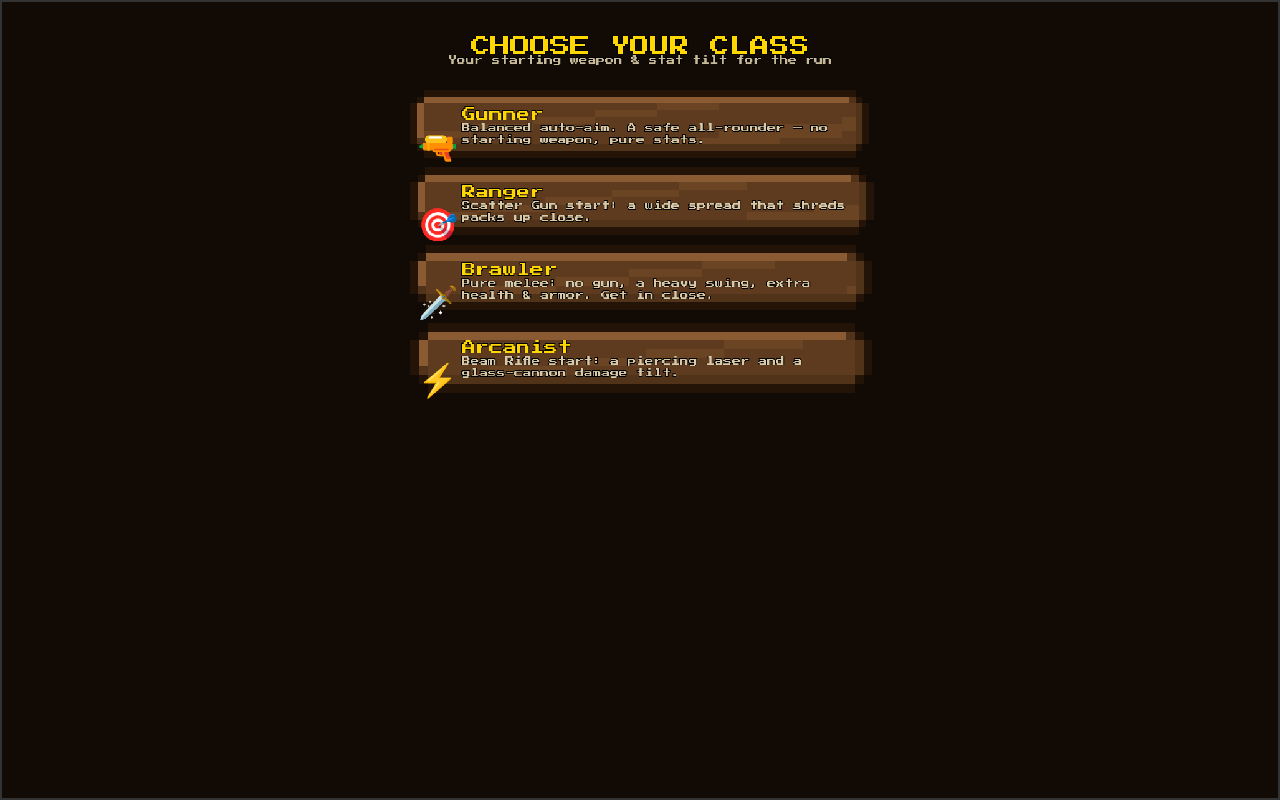
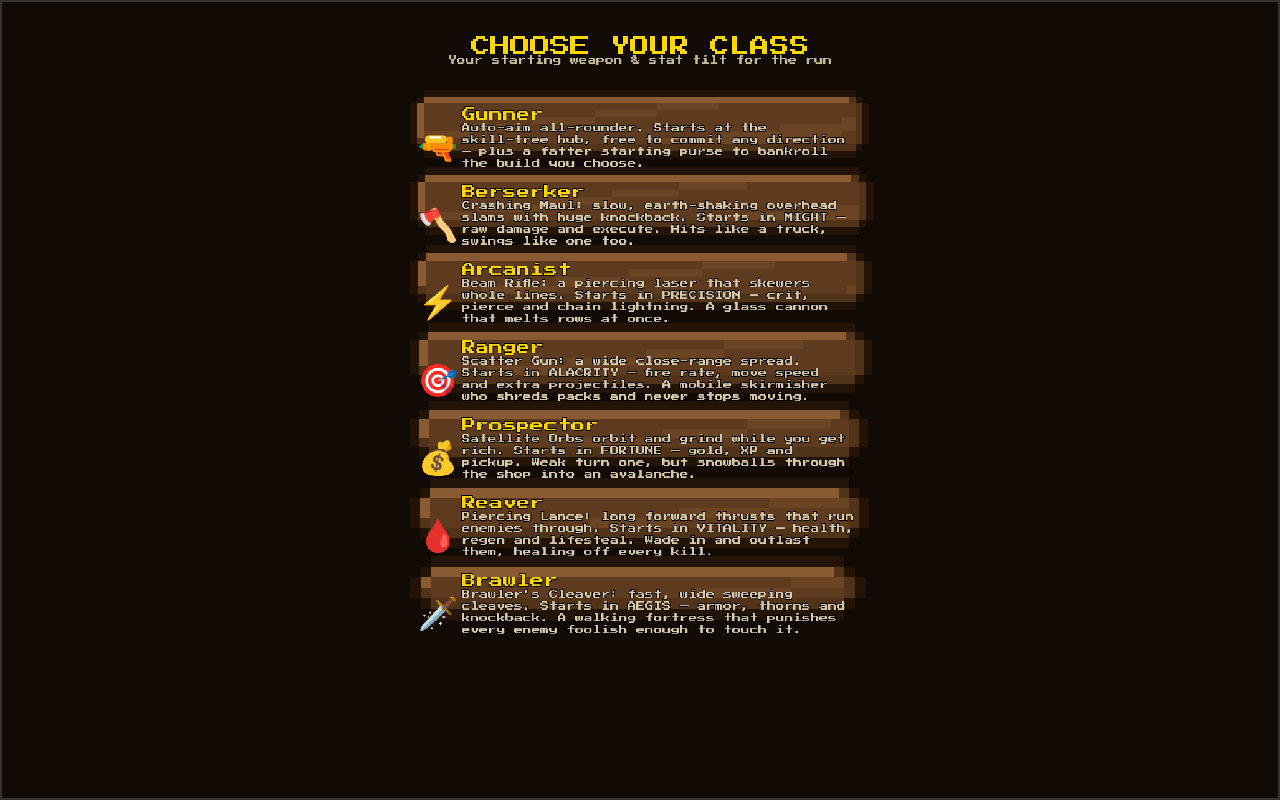
feat(game): add 8 new active skills — repel, lance, shield, runes, soul, mirror, comet, hellfire
Adds 8 Soulstone-inspired active skills covering new gameplay categories:

Tier 1:
- Thunder Clap: explosive repel blast — pushes all nearby enemies outward + stuns 1s

Tier 2:
- Bone Spear: massive single piercing bone lance through all enemies in line
- Spectral Shield: 5s invincibility bubble + burst nova on cast
- Rune Field: drop 6 delayed rune detonations at enemy positions (0.5s fuse)

Tier 3:
- Soul Shatter: stack Condemned×12 + Fragility×10 + Exposed×5 on 8 nearest, then detonate
- Mirror Strike: 3 simultaneous strikes hit every enemy on screen

Tier 4:
- Doom Comet: 1.5s warning comet — 18× damage, huge radius, applies ALL debuffs to every hit enemy
- Hellfire Rain: 20 bolts rain on all living enemies over 4 seconds

Scroll items added for all 8 skills across tiers (34 total active skills now).
New categories covered: repel/knockback, defense/invincibility, trap/placement, debuff-nuke.

Changed region(s): [[0.3125, 0.1562, 0.6875, 0.8125]]

diff --git a/frontend/src/Game.ts b/frontend/src/Game.ts
@@ -2205,6 +2205,173 @@ export class Game {
         }
         break;
       }
+
+      // ── TIER 1 NEW ───────────────────────────────────────────────────────
+      case 'thunder_clap': {
+        // Explosive repel — blast all nearby enemies outward, stun 1s, AoE damage.
+        const rTC = skill.radius ?? 200;
+        for (const e of this.enemies) {
+          if (e.dead) continue;
+          const dx = e.x - px, dy = e.y - py;
+          const dist = Math.hypot(dx, dy);
+          if (dist <= rTC) {
+            // Push enemy outward (stronger when closer)
+            const pushMag = (1 - dist / rTC) * 220 + 60;
+            if (dist > 5) {
+              e.x = Math.max(20, Math.min(this.worldWidth - 20, e.x + (dx / dist) * pushMag));
+              e.y = Math.max(20, Math.min(this.worldHeight - 20, e.y + (dy / dist) * pushMag));
+            }
+            e.frozenTimer = Math.max(e.frozenTimer, 1.0); // stun via freeze
+            this.dealAuxDamage(e, baseDmg, '#ffd43b');
+          }
+        }
+        this.spawnAoeZone(new AoeZone(px, py, rTC, 0, 0.0, {
+          color: '#ffd43b', activeTime: 0.35, singleHit: true,
+        }));
+        break;
+      }
+
+      // ── TIER 2 NEW ───────────────────────────────────────────────────────
+      case 'bone_spear': {
+        // Massive single piercing bone lance — fired toward the nearest enemy.
+        const aliveBS = this.enemies.filter(e => !e.dead);
+        if (aliveBS.length === 0) break;
+        const nearBS = aliveBS.reduce((n, e) =>
+          Math.hypot(e.x - px, e.y - py) < Math.hypot(n.x - px, n.y - py) ? e : n
+        );
+        const angleBS = Math.atan2(nearBS.y - py, nearBS.x - px);
+        const p = new Projectile(px, py, angleBS, baseDmg, 320, true, false);
+        p.maxPierceCount = 999;
+        p.color = '#e8d5b7';
+        p.radius = 18; // visually large
+        this.projectiles.push(p);
+        break;
+      }
+      case 'spectral_shield': {
+        // 5s invincibility bubble + immediate burst nova around the player.
+        if (this.player) this.player.invincibilityTimer = Math.max(this.player.invincibilityTimer, 5.0);
+        const rSS = skill.radius ?? 160;
+        for (const e of this.enemies) {
+          if (e.dead) continue;
+          if (Math.hypot(e.x - px, e.y - py) <= rSS) {
+            this.dealAuxDamage(e, baseDmg, '#74c0fc');
+          }
+        }
+        this.spawnAoeZone(new AoeZone(px, py, rSS, 0, 0.0, {
+          color: '#a5d8ff', activeTime: 5.0, singleHit: true, shape: 'ring',
+        }));
+        break;
+      }
+      case 'rune_field': {
+        // Drop 6 rune detonations at nearest enemy positions, each with 0.5s fuse.
+        const alivRF = [...this.enemies]
+          .filter(e => !e.dead)
+          .sort((a, b) => Math.hypot(a.x - px, a.y - py) - Math.hypot(b.x - px, b.y - py))
+          .slice(0, 6);
+        const rRF = skill.radius ?? 70;
+        for (let i = 0; i < alivRF.length; i++) {
+          const t = alivRF[i];
+          this.spawnAoeZone(new AoeZone(t.x, t.y, rRF, baseDmg, 0.5 + i * 0.1, {
+            color: '#ff6b6b', activeTime: 0.4, singleHit: true,
+          }));
+        }
+        // If fewer than 6 enemies, fill with random positions around player
+        for (let i = alivRF.length; i < 6; i++) {
+          const ang = (i / 6) * Math.PI * 2;
+          const d = 100 + Math.random() * 80;
+          this.spawnAoeZone(new AoeZone(px + Math.cos(ang) * d, py + Math.sin(ang) * d, rRF, baseDmg, 0.5 + i * 0.1, {
+            color: '#ff6b6b', activeTime: 0.4, singleHit: true,
+          }));
+        }
+        break;
+      }
+
+      // ── TIER 3 NEW ───────────────────────────────────────────────────────
+      case 'soul_shatter': {
+        // Stack Condemned×12 + Fragility×10 on 8 nearest, then detonation burst.
+        const targsSH = [...this.enemies]
+          .filter(e => !e.dead)
+          .sort((a, b) => Math.hypot(a.x - px, a.y - py) - Math.hypot(b.x - px, b.y - py))
+          .slice(0, 8);
+        for (const t of targsSH) {
+          t.statusFX.apply('condemned', { stacks: 12 });
+          t.statusFX.apply('fragility', { stacks: 10 });
+          t.statusFX.apply('exposed', { stacks: 5 });
+        }
+        // Detonation burst — hits all 8 and visual flash
+        for (const t of targsSH) {
+          this.dealAuxDamage(t, baseDmg, '#c92a2a');
+          this.spawnAoeZone(new AoeZone(t.x, t.y, 45, 0, 0.0, {
+            color: '#9b2335', activeTime: 0.35, singleHit: true,
+          }));
+        }
+        break;
+      }
+      case 'mirror_strike': {
+        // 3 simultaneous strikes hit EVERY enemy on screen.
+        const alivMS = this.enemies.filter(e => !e.dead);
+        for (let wave = 0; wave < 3; wave++) {
+          this.spawnAoeZone(new AoeZone(px, py, 900, baseDmg / 3, wave * 0.3, {
+            color: '#e599f7', activeTime: 0.25, singleHit: false,
+          }));
+        }
+        // Extra visual on each enemy
+        for (const e of alivMS) {
+          if (!e.dead) this.spawnAoeZone(new AoeZone(e.x, e.y, 30, 0, 0.0, {
+            color: '#cc5de8', activeTime: 0.2, singleHit: true,
+          }));
+        }
+        break;
+      }
+
+      // ── TIER 4 NEW ───────────────────────────────────────────────────────
+      case 'doom_comet': {
+        // 1.5s warning comet — massive blast + all debuffs on every enemy hit.
+        const rDC = skill.radius ?? 200;
+        this.spawnAoeZone(new AoeZone(px, py, rDC, 0, 0.0, {
+          color: '#f03e3e', activeTime: 1.5, singleHit: true,
+        }));
+        // Detonation + debuffs after warning
+        this.spawnAoeZone(new AoeZone(px, py, rDC, baseDmg, 1.5, {
+          color: '#ff8c00', activeTime: 0.6, singleHit: false,
+        }));
+        // Apply all debuffs to enemies in radius after impact
+        for (const e of this.enemies) {
+          if (e.dead) continue;
+          if (Math.hypot(e.x - px, e.y - py) <= rDC) {
+            e.statusFX.apply('fragility', { stacks: 8 });
+            e.statusFX.apply('exposed', { stacks: 6 });
+            e.statusFX.apply('condemned', { stacks: 8 });
+            e.statusFX.apply('brittle', { stacks: 10 });
+            e.burnTimer = Math.max(e.burnTimer, 4.0);
+            e.poisonTimer = Math.max(e.poisonTimer, 4.0);
+            e.frozenTimer = Math.max(e.frozenTimer, 0.8);
+          }
+        }
+        break;
+      }
+      case 'hellfire_rain': {
+        // 20 hellfire bolts rain down on all living enemies over 4 seconds.
+        const rHR = skill.radius ?? 65;
+        const aliveHR = this.enemies.filter(e => !e.dead);
+        const count = Math.min(20, Math.max(20, aliveHR.length));
+        for (let i = 0; i < count; i++) {
+          let ix: number, iy: number;
+          if (aliveHR.length > 0) {
+            const t = aliveHR[i % aliveHR.length];
+            ix = t.x + (Math.random() - 0.5) * 50;
+            iy = t.y + (Math.random() - 0.5) * 50;
+          } else {
+            const a = Math.random() * Math.PI * 2;
+            ix = px + Math.cos(a) * (Math.random() * 300);
+            iy = py + Math.sin(a) * (Math.random() * 300);
+          }
+          this.spawnAoeZone(new AoeZone(ix, iy, rHR, baseDmg, i * 0.2, {
+            color: '#ff4500', activeTime: 0.4, singleHit: true,
+          }));
+        }
+        break;
+      }
     }
   }
 

diff --git a/frontend/src/ActiveSkillSystem.ts b/frontend/src/ActiveSkillSystem.ts
@@ -24,22 +24,30 @@ export type ActiveSkillEffect =
   | 'arcane_barrage'   // 5 homing bolts fired at 5 nearest enemies
   | 'inferno_aura'     // Brief fire ring burns all nearby enemies
   | 'crystal_burst'    // Crystallize 4 nearest (hard freeze + damage)
+  | 'thunder_clap'     // Explosive repel — blasts all nearby enemies outward + stuns
   // --- Tier 2 additions ---
   | 'blade_storm'      // 8 blades spiral outward from player
   | 'lightning_storm'  // 5 rapid lightning strikes in area
   | 'void_pulse'       // 3 expanding damage rings
   | 'blizzard'         // 6 frost impacts scattered in large radius
   | 'gravity_pull'     // Pull all enemies toward player then slow
+  | 'bone_spear'       // Massive single piercing bone lance through all enemies in line
+  | 'spectral_shield'  // 5s invincibility bubble + burst nova on cast
+  | 'rune_field'       // Drop 6 delayed rune detonations at nearest enemy positions
   // --- Tier 3 additions ---
   | 'time_warp'        // Freeze all, then reduce to 20% speed for 5s
   | 'vampire_burst'    // Drain 10 nearest, heal per hit
   | 'spectral_dash'    // 5× quick dashes through enemies
   | 'plague_bomb'      // Large persistent poison zone with spread
+  | 'soul_shatter'     // Stack Condemned + Fragility on 8 nearest then detonate
+  | 'mirror_strike'    // 3× simultaneous strike hits ALL enemies on screen
   // --- Tier 4 additions ---
   | 'black_hole'       // Pull then detonate — massive damage
   | 'curse_wave'       // Apply fragility + exposed to all enemies on screen
   | 'divine_wrath'     // Holy multi-strike all enemies + i-frames
-  | 'armageddon';      // 12 sequential meteor impacts over 3 seconds
+  | 'armageddon'       // 12 sequential meteor impacts over 3 seconds
+  | 'doom_comet'       // Single massive comet — 1.5s warning, huge radius, all debuffs
+  | 'hellfire_rain';   // 20 rapid fire strikes targeting all living enemies over 4s
 
 export interface ActiveSkill {
   id: string;
@@ -169,6 +177,17 @@ export const ACTIVE_SKILLS: ActiveSkill[] = [
 
   // ===================== TIER 1 — NEW =====================
   {
+    id: 'thunder_clap',
+    name: 'Thunder Clap',
+    icon: '💢',
+    desc: 'Explosive repel — blast all nearby enemies outward and stun them for 1s.',
+    cooldown: 6,
+    effect: 'thunder_clap',
+    tier: 1,
+    baseDamageMultiplier: 3,
+    radius: 200,
+  },
+  {
     id: 'arcane_barrage',
     name: 'Arcane Barrage',
     icon: '🔮',
@@ -256,6 +275,39 @@ export const ACTIVE_SKILLS: ActiveSkill[] = [
     radius: 900,
   },
 
+  {
+    id: 'bone_spear',
+    name: 'Bone Spear',
+    icon: '🦴',
+    desc: 'Hurl a massive bone lance that pierces every enemy in its path (10× dmg).',
+    cooldown: 5,
+    effect: 'bone_spear',
+    tier: 2,
+    baseDamageMultiplier: 10,
+  },
+  {
+    id: 'spectral_shield',
+    name: 'Spectral Shield',
+    icon: '🛡️',
+    desc: 'Conjure a ghost barrier — 5s of invincibility + burst nova on cast (4× dmg).',
+    cooldown: 12,
+    effect: 'spectral_shield',
+    tier: 2,
+    baseDamageMultiplier: 4,
+    radius: 160,
+  },
+  {
+    id: 'rune_field',
+    name: 'Rune Field',
+    icon: '🔴',
+    desc: 'Drop 6 delayed rune detonations at enemy positions — each a 5× blast (0.5s fuse).',
+    cooldown: 7,
+    effect: 'rune_field',
+    tier: 2,
+    baseDamageMultiplier: 5,
+    radius: 70,
+  },
+
   // ===================== TIER 3 — NEW =====================
   {
     id: 'time_warp',
@@ -298,6 +350,27 @@ export const ACTIVE_SKILLS: ActiveSkill[] = [
     tier: 3,
     baseDamageMultiplier: 1.5,
     radius: 140,
+  },
+
+  {
+    id: 'soul_shatter',
+    name: 'Soul Shatter',
+    icon: '💔',
+    desc: 'Shatter the souls of 8 nearby enemies — stacks Condemned×12 + Fragility×10, then detonates (8× dmg).',
+    cooldown: 10,
+    effect: 'soul_shatter',
+    tier: 3,
+    baseDamageMultiplier: 8,
+  },
+  {
+    id: 'mirror_strike',
+    name: 'Mirror Strike',
+    icon: '🪞',
+    desc: 'Your attack echoes across reality — 3 simultaneous strikes hit EVERY enemy on screen.',
+    cooldown: 12,
+    effect: 'mirror_strike',
+    tier: 3,
+    baseDamageMultiplier: 4,
   },
 
   // ===================== TIER 4 — NEW =====================
@@ -343,6 +416,28 @@ export const ACTIVE_SKILLS: ActiveSkill[] = [
     tier: 4,
     baseDamageMultiplier: 6,
     radius: 100,
+  },
+  {
+    id: 'doom_comet',
+    name: 'Doom Comet',
+    icon: '🌠',
+    desc: 'Call a doom comet (1.5s warning) — massive 18× blast, applies all debuffs to every enemy hit.',
+    cooldown: 22,
+    effect: 'doom_comet',
+    tier: 4,
+    baseDamageMultiplier: 18,
+    radius: 200,
+  },
+  {
+    id: 'hellfire_rain',
+    name: 'Hellfire Rain',
+    icon: '🔥',
+    desc: '20 hellfire bolts rain down targeting every living enemy over 4 seconds.',
+    cooldown: 24,
+    effect: 'hellfire_rain',
+    tier: 4,
+    baseDamageMultiplier: 7,
+    radius: 65,
   },
 ];
 

diff --git a/frontend/src/items/catalog.ts b/frontend/src/items/catalog.ts
@@ -4342,7 +4342,7 @@ export const ITEM_CATALOG: Item[] = [
     // Spell Scrolls equip an active skill to the [Q] or [E] slot (mobile: SKILL/E buttons).
     // 1st scroll → Q slot; 2nd scroll → E slot; buying a 3rd replaces the oldest.
     // Two skills can be active simultaneously with independent cooldowns.
-    // No stat effects — the active skill ability IS the effect. All 26 skills are covered.
+    // No stat effects — the active skill ability IS the effect. All 34 skills are covered.
 
     // --- Tier 1 (Common) scrolls ---
     { id: 'scroll_frost_nova', name: 'Frost Tome', description: 'Equips Frost Nova: freeze ring (2× dmg + 3s slow, 5s cd). [Q/E]', rarity: 'common', tier: ItemTier.Common, cost: 14, icon: '❄️', unlocked: true, tags: ['elemental', 'utility'], activatesSkill: 'frost_nova' },
@@ -4350,6 +4350,7 @@ export const ITEM_CATALOG: Item[] = [
     { id: 'scroll_arcane_barrage', name: 'Arcane Tome', description: 'Equips Arcane Barrage: 5 homing bolts → 5 nearest enemies (3× each, 4s cd). [Q/E]', rarity: 'common', tier: ItemTier.Common, cost: 14, icon: '🔮', unlocked: true, tags: ['elemental', 'ranged'], activatesSkill: 'arcane_barrage' },
     { id: 'scroll_inferno_aura', name: 'Inferno Codex', description: 'Equips Inferno Aura: fire ring ignites all nearby enemies (2.5× dmg, 7s cd). [Q/E]', rarity: 'common', tier: ItemTier.Common, cost: 13, icon: '🌟', unlocked: true, tags: ['elemental'], activatesSkill: 'inferno_aura' },
     { id: 'scroll_crystal_burst', name: 'Crystal Scroll', description: 'Equips Crystal Burst: hard-freeze + damage 4 nearest enemies (4× dmg, 6s cd). [Q/E]', rarity: 'common', tier: ItemTier.Common, cost: 15, icon: '💎', unlocked: true, tags: ['elemental', 'utility'], activatesSkill: 'crystal_burst' },
+    { id: 'scroll_thunder_clap', name: 'Thunder Clap Tome', description: 'Equips Thunder Clap: explosive repel blasts all nearby outward + stuns 1s (3× dmg, 6s cd). [Q/E]', rarity: 'common', tier: ItemTier.Common, cost: 13, icon: '💢', unlocked: true, tags: ['elemental', 'utility'], activatesSkill: 'thunder_clap' },
 
     // --- Tier 2 (Uncommon) scrolls ---
     { id: 'scroll_meteor', name: 'Meteor Scroll', description: 'Equips Meteor Strike: telegraphed impact (8× dmg, wide area, 8s cd). [Q/E]', rarity: 'rare', tier: ItemTier.Uncommon, cost: 22, icon: '☄️', unlocked: true, tags: ['elemental'], activatesSkill: 'meteor' },
@@ -4361,6 +4362,9 @@ export const ITEM_CATALOG: Item[] = [
     { id: 'scroll_void_pulse', name: 'Void Tome', description: 'Equips Void Pulse: 3 expanding damage rings ripple outward (3× each, 6s cd). [Q/E]', rarity: 'rare', tier: ItemTier.Uncommon, cost: 20, icon: '🌑', unlocked: true, tags: ['elemental'], activatesSkill: 'void_pulse' },
     { id: 'scroll_blizzard', name: 'Blizzard Scroll', description: 'Equips Blizzard: 6 frost shards scatter wide — slow + damage (3.5× each, 7s cd). [Q/E]', rarity: 'rare', tier: ItemTier.Uncommon, cost: 22, icon: '🌨️', unlocked: true, tags: ['elemental', 'utility'], activatesSkill: 'blizzard' },
     { id: 'scroll_gravity_pull', name: 'Gravity Codex', description: 'Equips Gravity Pull: yank all enemies toward you then slow for 3s (10s cd). [Q/E]', rarity: 'rare', tier: ItemTier.Uncommon, cost: 28, icon: '🕳️', unlocked: true, tags: ['utility'], activatesSkill: 'gravity_pull' },
+    { id: 'scroll_bone_spear', name: 'Bone Lance Scroll', description: 'Equips Bone Spear: massive piercing lance through all enemies in its path (10× dmg, 5s cd). [Q/E]', rarity: 'rare', tier: ItemTier.Uncommon, cost: 24, icon: '🦴', unlocked: true, tags: ['melee', 'ranged'], activatesSkill: 'bone_spear' },
+    { id: 'scroll_spectral_shield', name: 'Ghost Ward Tome', description: 'Equips Spectral Shield: 5s invincibility + burst nova on cast (4× dmg, 12s cd). [Q/E]', rarity: 'rare', tier: ItemTier.Uncommon, cost: 26, icon: '🛡️', unlocked: true, tags: ['defensive', 'utility'], activatesSkill: 'spectral_shield' },
+    { id: 'scroll_rune_field', name: 'Rune Field Scroll', description: 'Equips Rune Field: drop 6 delayed rune blasts at enemy positions (5× each, 7s cd). [Q/E]', rarity: 'rare', tier: ItemTier.Uncommon, cost: 22, icon: '🔴', unlocked: true, tags: ['elemental', 'utility'], activatesSkill: 'rune_field' },
 
     // --- Tier 3 (Rare) scrolls ---
     { id: 'scroll_blood_nova', name: 'Blood Ritual Tome', description: 'Equips Blood Nova: dark AoE (6× dmg) + heals 20% dealt (6s cd). [Q/E]', rarity: 'epic', tier: ItemTier.Rare, cost: 42, icon: '🩸', unlocked: true, tags: ['elemental', 'utility'], activatesSkill: 'blood_nova' },
@@ -4370,6 +4374,8 @@ export const ITEM_CATALOG: Item[] = [
     { id: 'scroll_vampire_burst', name: 'Vampire Codex', description: 'Equips Vampire Burst: drain 10 nearest (5× each) + heal 30% dealt (8s cd). [Q/E]', rarity: 'epic', tier: ItemTier.Rare, cost: 48, icon: '🧛', unlocked: true, tags: ['elemental', 'utility'], activatesSkill: 'vampire_burst' },
     { id: 'scroll_spectral_dash', name: 'Phase Scroll', description: 'Equips Spectral Dash: phase through 5 enemies in rapid succession (6× each, 9s cd). [Q/E]', rarity: 'epic', tier: ItemTier.Rare, cost: 50, icon: '💨', unlocked: true, tags: ['utility'], activatesSkill: 'spectral_dash' },
     { id: 'scroll_plague_bomb', name: 'Plague Canister Tome', description: 'Equips Plague Bomb: hurl a massive DoT zone lasting 8 seconds (8s cd). [Q/E]', rarity: 'epic', tier: ItemTier.Rare, cost: 44, icon: '🧪', unlocked: true, tags: ['elemental', 'utility'], activatesSkill: 'plague_bomb' },
+    { id: 'scroll_soul_shatter', name: 'Soul Shatter Codex', description: 'Equips Soul Shatter: max-stack Condemned+Fragility on 8 nearest then detonate (8× dmg, 10s cd). [Q/E]', rarity: 'epic', tier: ItemTier.Rare, cost: 50, icon: '💔', unlocked: true, tags: ['elemental', 'utility'], activatesSkill: 'soul_shatter' },
+    { id: 'scroll_mirror_strike', name: 'Mirror Tome', description: 'Equips Mirror Strike: 3 simultaneous strikes hit EVERY enemy on screen (4× each, 12s cd). [Q/E]', rarity: 'epic', tier: ItemTier.Rare, cost: 48, icon: '🪞', unlocked: true, tags: ['elemental'], activatesSkill: 'mirror_strike' },
 
     // --- Tier 4 (Legendary) scrolls ---
     { id: 'scroll_earthquake', name: 'World-Shaker Tome', description: 'Equips Earthquake: damage + stun ALL enemies on screen (10× dmg, 12s cd). [Q/E]', rarity: 'legendary', tier: ItemTier.Legendary, cost: 80, icon: '🌋', unlocked: true, tags: ['elemental', 'utility'], activatesSkill: 'earthquake' },
@@ -4377,4 +4383,6 @@ export const ITEM_CATALOG: Item[] = [
     { id: 'scroll_curse_wave', name: 'Malediction Codex', description: 'Equips Curse Wave: apply Fragility + Exposed to every enemy on screen (14s cd). [Q/E]', rarity: 'legendary', tier: ItemTier.Legendary, cost: 75, icon: '💀', unlocked: true, tags: ['elemental', 'utility'], activatesSkill: 'curse_wave' },
     { id: 'scroll_divine_wrath', name: 'Divine Codex', description: 'Equips Divine Wrath: 3× holy strike hits ALL enemies; you are invincible during (16s cd). [Q/E]', rarity: 'legendary', tier: ItemTier.Legendary, cost: 85, icon: '⚜️', unlocked: true, tags: ['elemental', 'utility'], activatesSkill: 'divine_wrath' },
     { id: 'scroll_armageddon', name: 'Armageddon Tome', description: 'Equips Armageddon: 12 meteors rain over 3 seconds (6× each, 20s cd). [Q/E]', rarity: 'legendary', tier: ItemTier.Legendary, cost: 95, icon: '💥', unlocked: true, tags: ['elemental'], activatesSkill: 'armageddon' },
+    { id: 'scroll_doom_comet', name: 'Doom Comet Tome', description: 'Equips Doom Comet: 1.5s warning comet (18× dmg, huge radius, all debuffs, 22s cd). [Q/E]', rarity: 'legendary', tier: ItemTier.Legendary, cost: 98, icon: '🌠', unlocked: true, tags: ['elemental', 'utility'], activatesSkill: 'doom_comet' },
+    { id: 'scroll_hellfire_rain', name: 'Hellfire Codex', description: 'Equips Hellfire Rain: 20 bolts target all living enemies over 4 seconds (7× each, 24s cd). [Q/E]', rarity: 'legendary', tier: ItemTier.Legendary, cost: 90, icon: '🔥', unlocked: true, tags: ['elemental'], activatesSkill: 'hellfire_rain' },
 ];